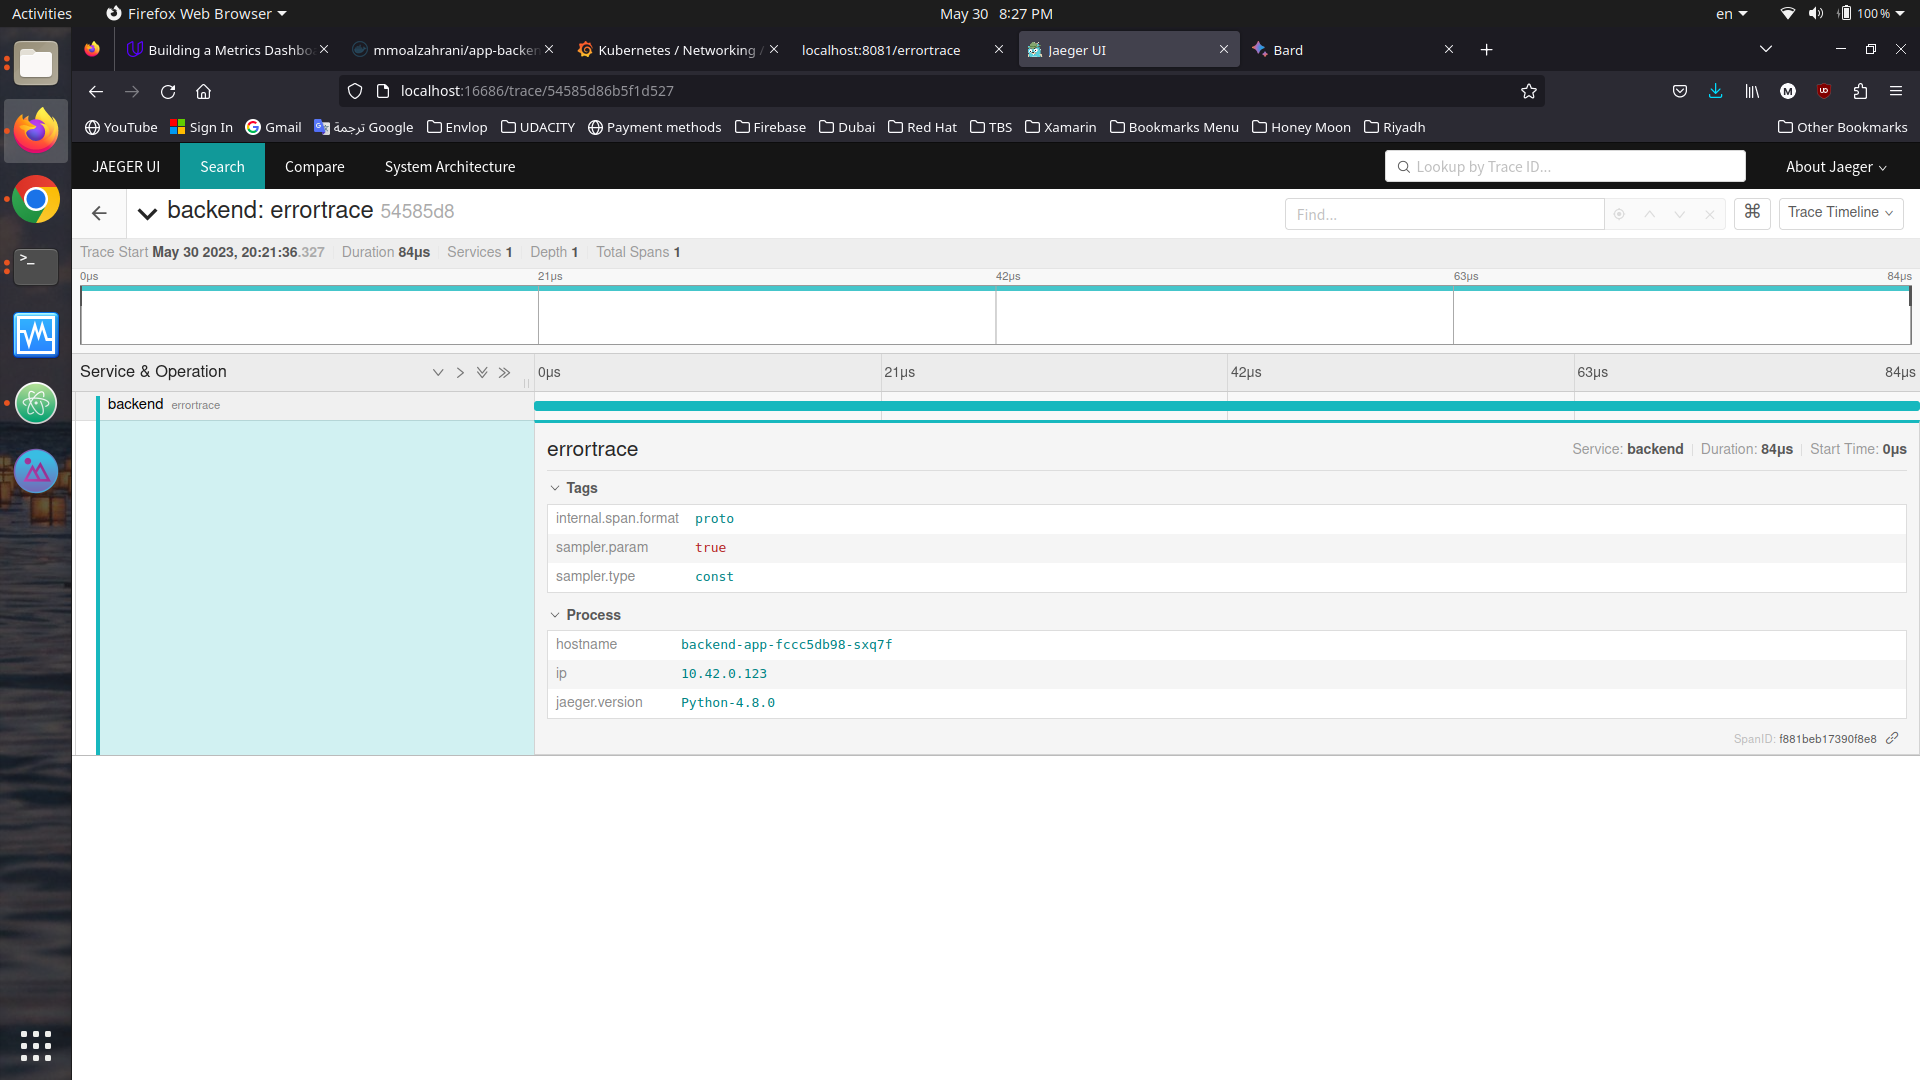
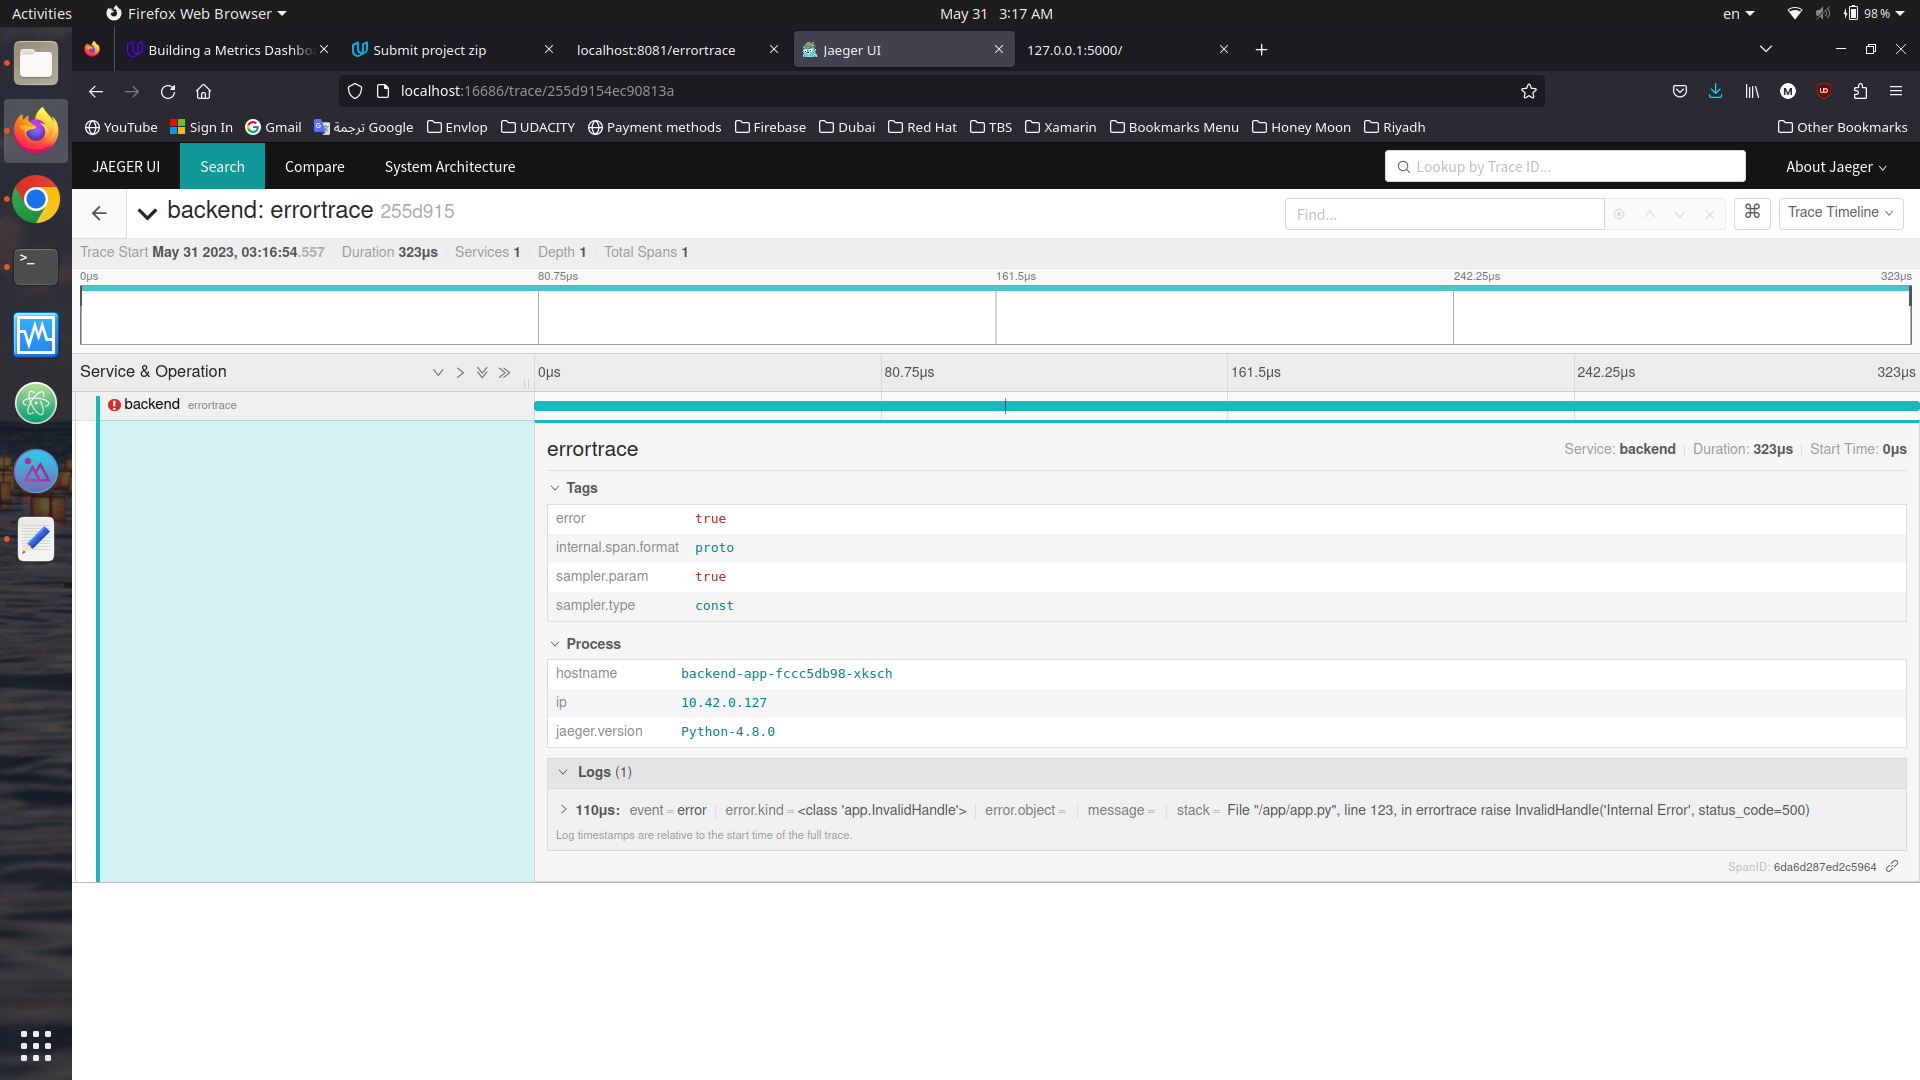
Update Jaeger Error

diff --git a/reference-app/backend/app.py b/reference-app/backend/app.py
@@ -1,4 +1,4 @@
-from flask import Flask, render_template, request, jsonify
+from flask import Flask, render_template, request, jsonify, Response
 import time
 import random
 import pymongo
@@ -120,7 +120,7 @@ def healthcheck():
 @by_endpoint_counter
 def errortrace():
     with tracer.start_span('errortrace'):
-        return "Bad Request", 400
+        raise InvalidHandle('Internal Error', status_code=500)
 
 if __name__ == "__main__":
     app.run(threaded=True)
